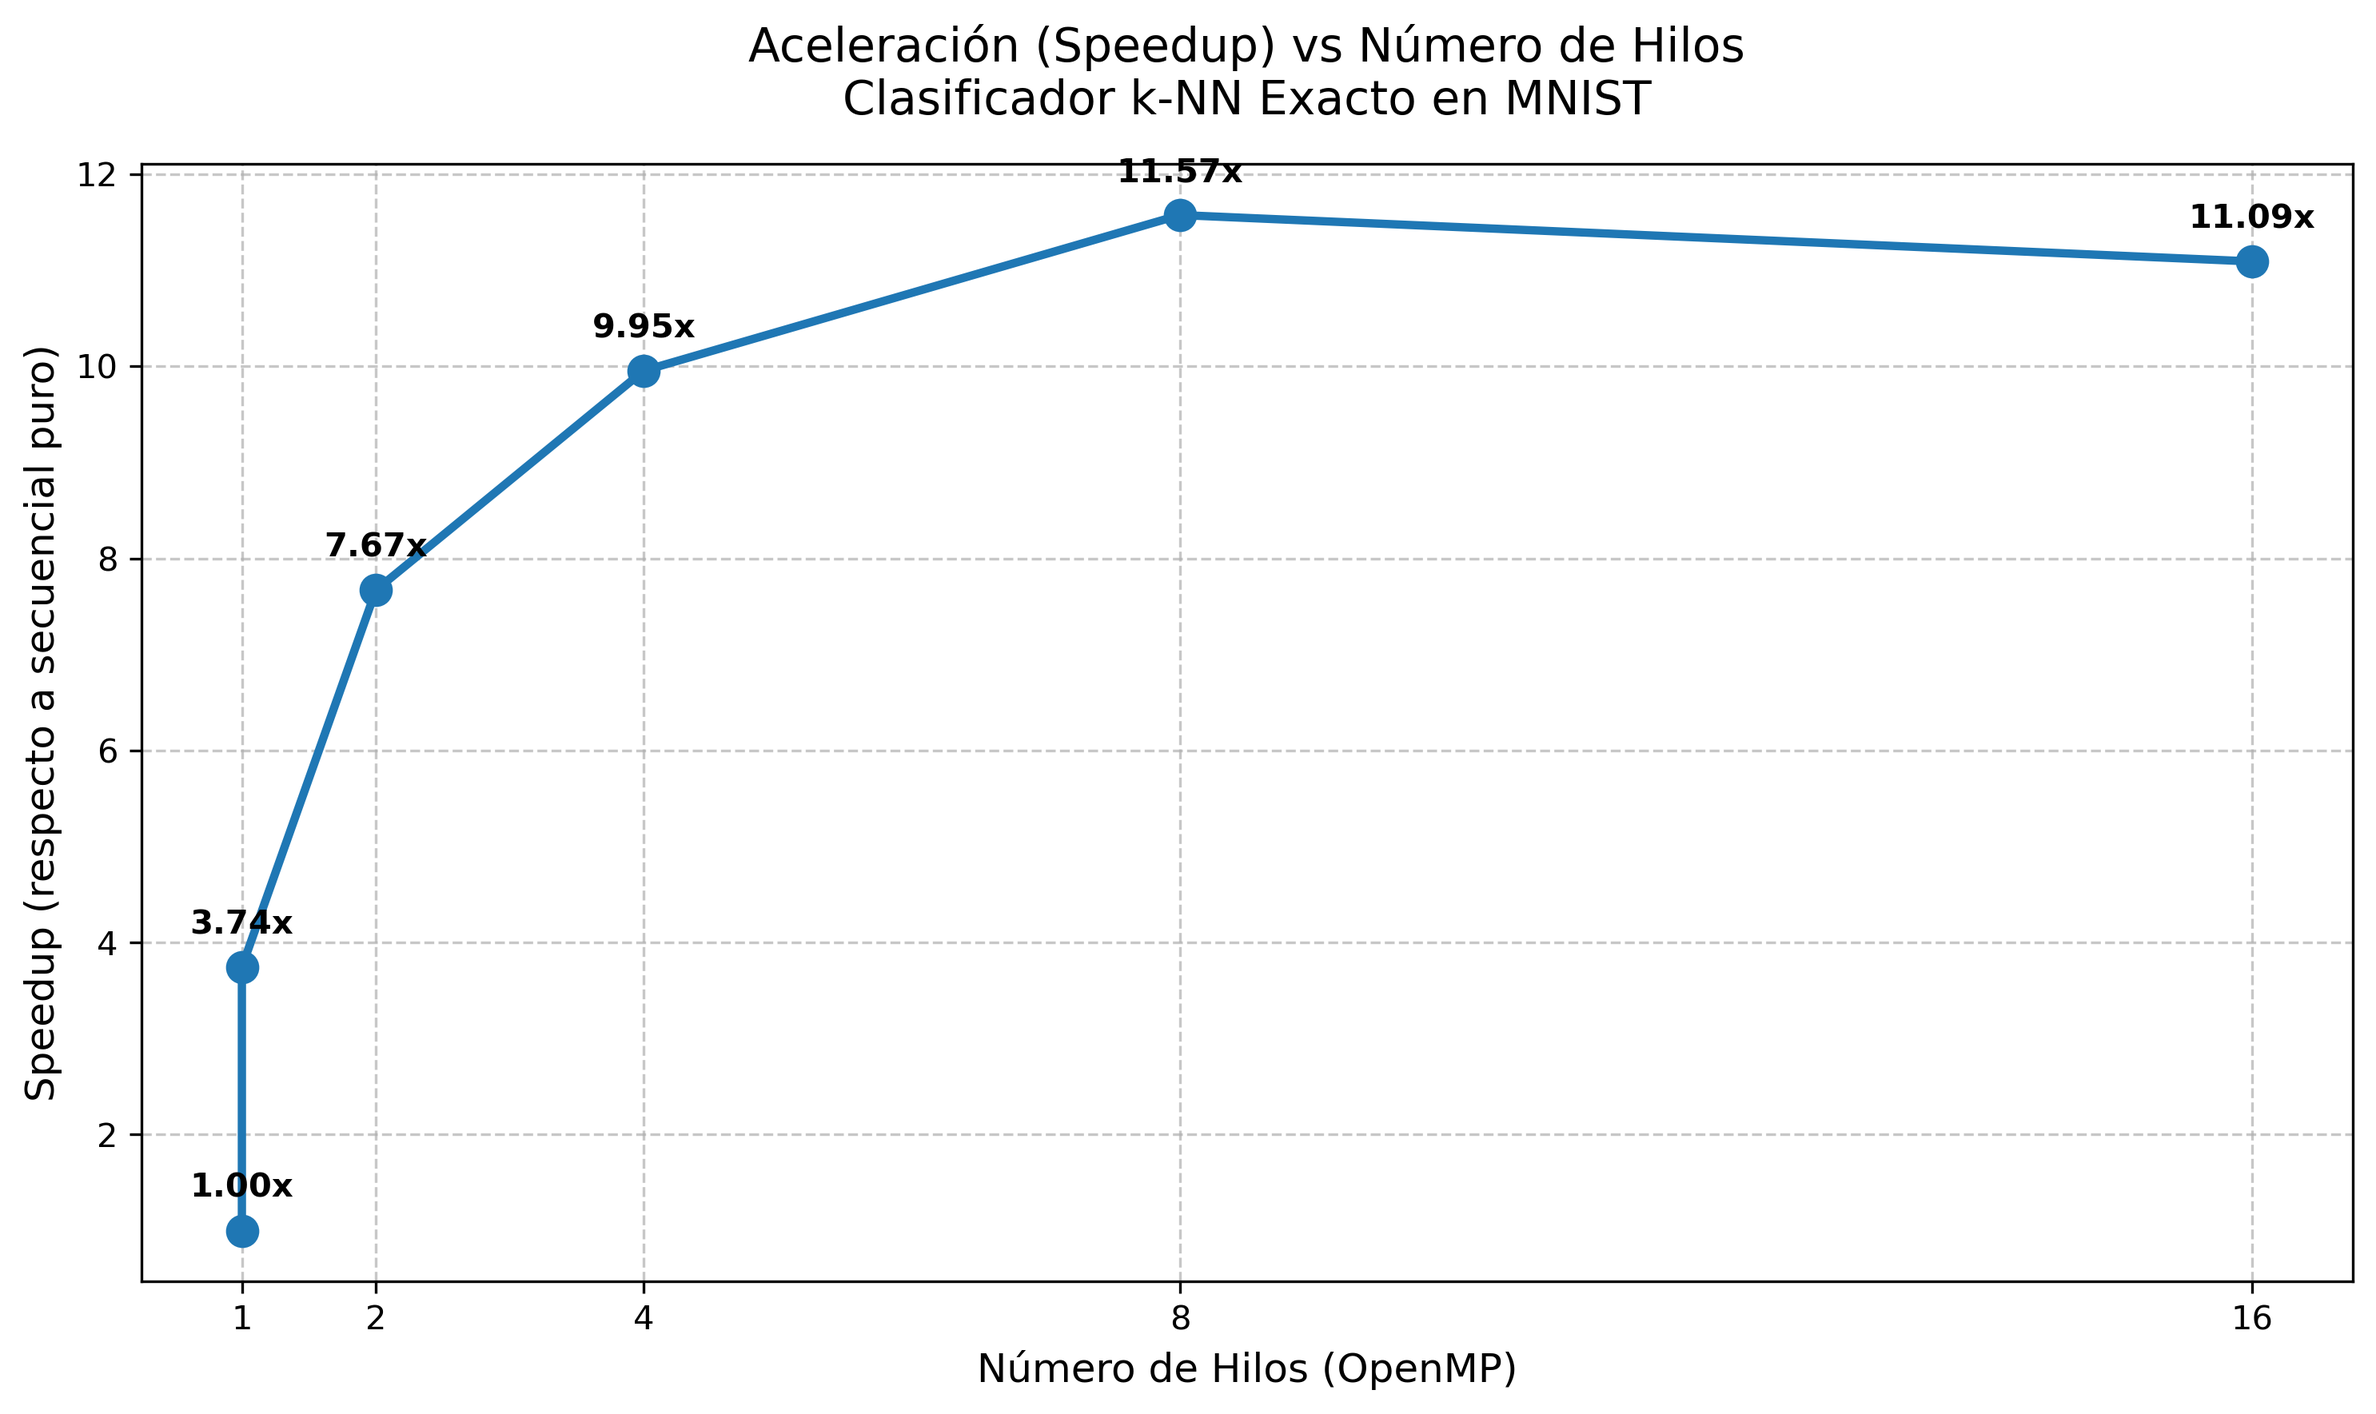
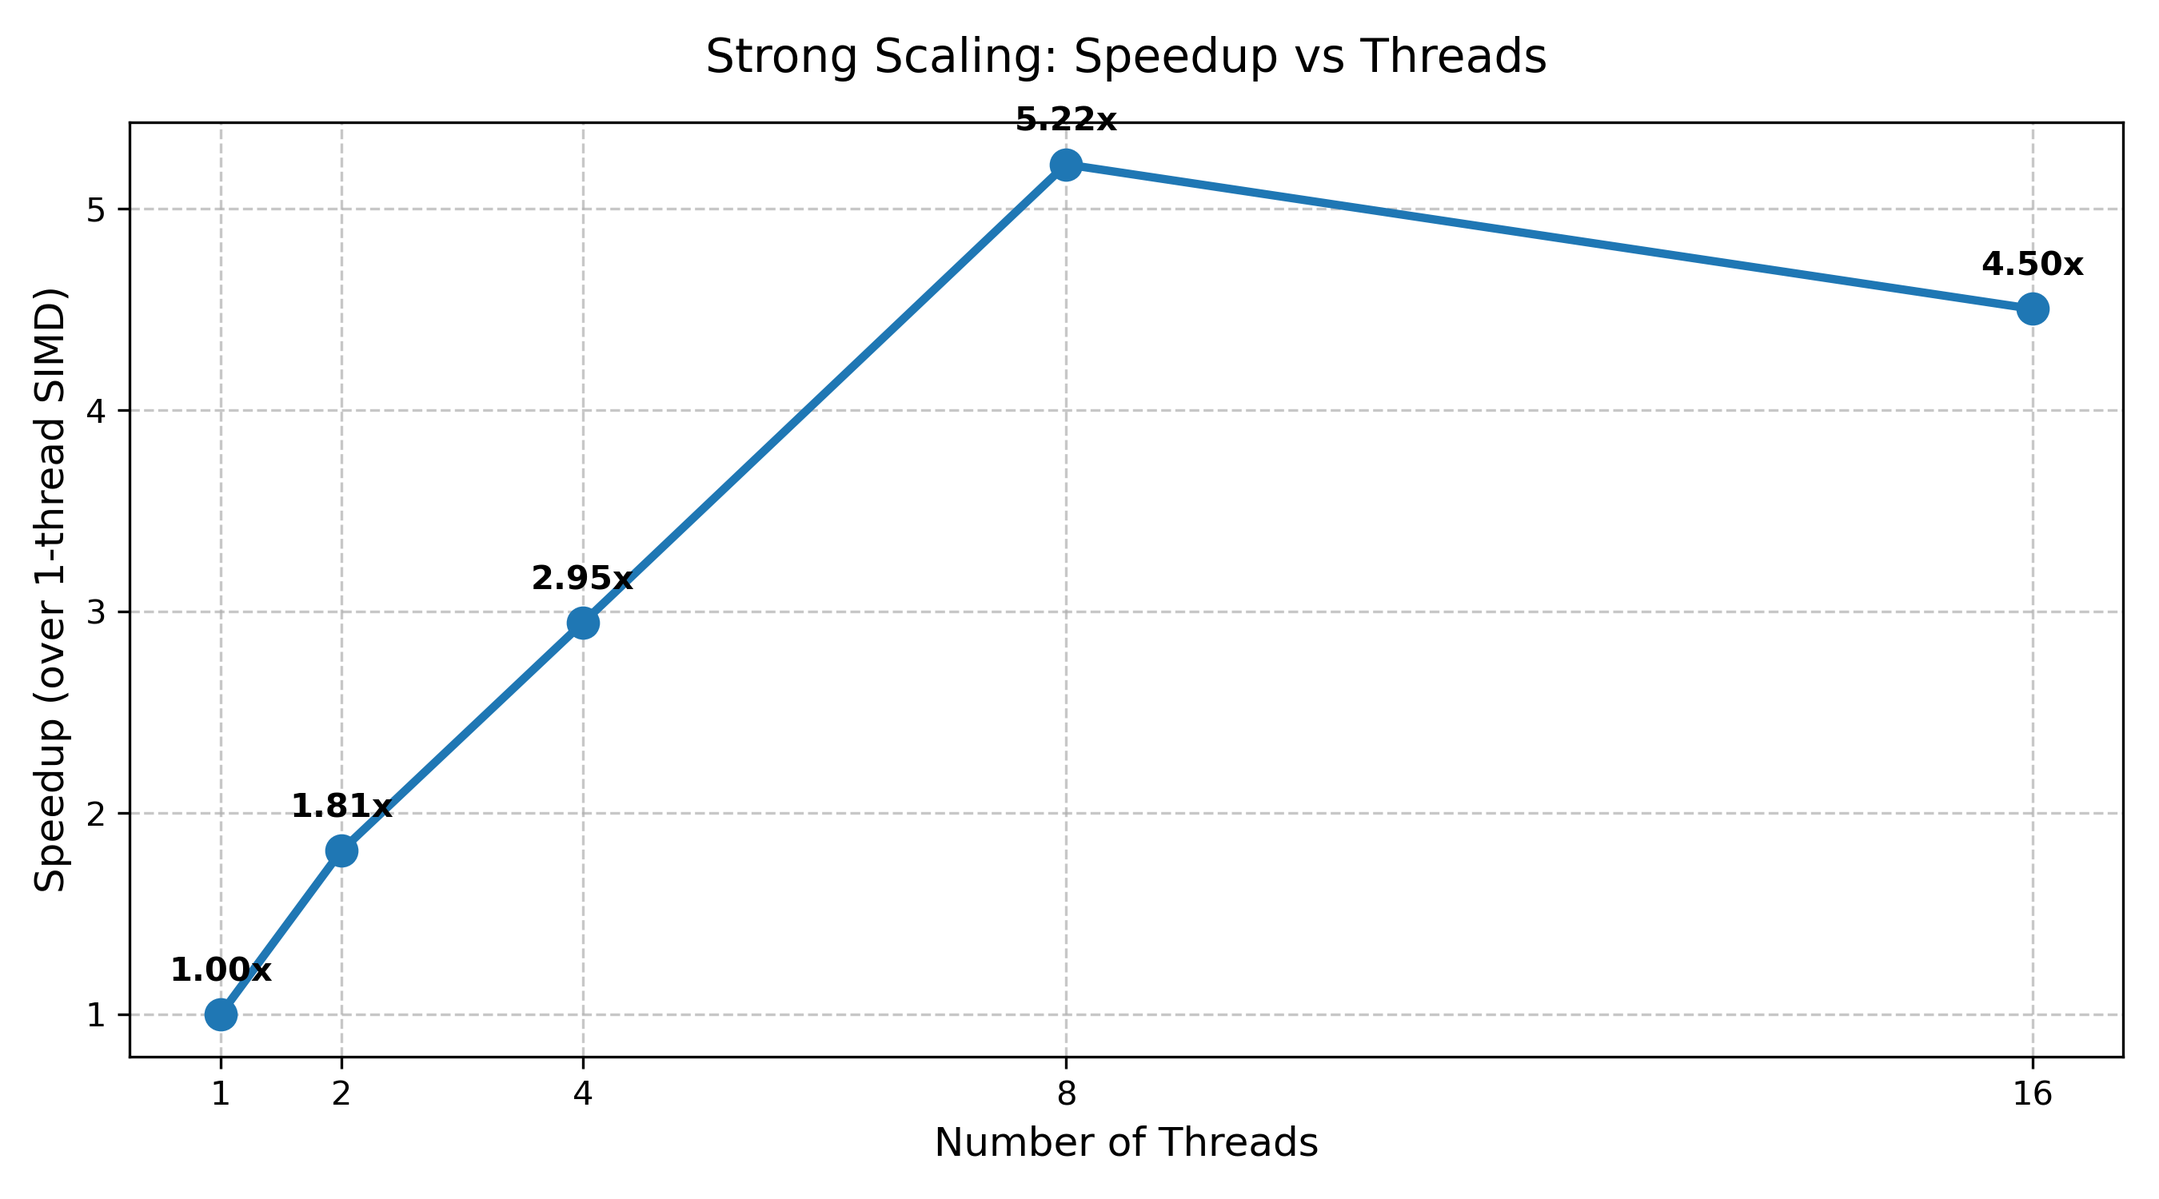
Add final technical report, performance plots, and execution results

diff --git a/knn_mnist.cpp b/knn_mnist.cpp
@@ -7,6 +7,7 @@
 #include <algorithm>
 #include <chrono>
 #include <omp.h>
+#include <iomanip>
 
 uint32_t swap_endian(uint32_t val) {
     return ((val << 24) & 0xff000000) |
@@ -68,6 +69,8 @@ void read_mnist_labels(const std::string& full_path, DatasetSoA& dataset) {
     }
 }
 
+// ---------------- DISTANCIAS Y SIMD ----------------
+
 float euclidean_distance_sq_simd(const float* img1, const float* img2, size_t num_features) {
     float dist = 0.0f;
     #pragma omp simd reduction(+:dist)
@@ -78,85 +81,84 @@ float euclidean_distance_sq_simd(const float* img1, const float* img2, size_t nu
     return dist;
 }
 
-
-
-// 1. DYNAMIC SCHEDULING
-
-
-
-double test_dynamic(const DatasetSoA& train, const DatasetSoA& test, int k, int samples, int threads) {
-    omp_set_num_threads(threads);
-    int correct = 0;
-    auto start = std::chrono::high_resolution_clock::now();
-
-    #pragma omp parallel for reduction(+:correct) schedule(dynamic)
-    for (int i = 0; i < samples; ++i) {
-        const float* current_test_img = &test.all_features[i * test.num_features];
-        std::vector<std::pair<float, uint8_t>> distances(train.num_samples);
-
-        for (size_t j = 0; j < train.num_samples; ++j) {
-            float dist = euclidean_distance_sq_simd(current_test_img, &train.all_features[j * train.num_features], train.num_features);
-            distances[j] = {dist, train.labels[j]};
-        }
-        std::partial_sort(distances.begin(), distances.begin() + k, distances.end(),
-                          [](const std::pair<float, uint8_t>& a, const std::pair<float, uint8_t>& b) { return a.first < b.first; });
+float cosine_distance_simd(const float* img1, const float* img2, size_t num_features) {
+    float dot = 0.0f, norm1 = 0.0f, norm2 = 0.0f;
+    #pragma omp simd reduction(+:dot, norm1, norm2)
+    for (size_t i = 0; i < num_features; ++i) {
+        dot += img1[i] * img2[i];
+        norm1 += img1[i] * img1[i];
+        norm2 += img2[i] * img2[i];
     }
-    std::chrono::duration<double> elapsed = std::chrono::high_resolution_clock::now() - start;
-    return elapsed.count();
+    if (norm1 == 0.0f || norm2 == 0.0f) return 1.0f; // Prevenir división por 0
+    return 1.0f - (dot / (std::sqrt(norm1) * std::sqrt(norm2)));
 }
 
+// ---------------- CLASIFICACIÓN (MAYORÍA) ----------------
 
-
-// 2. STATIC SCHEDULING
-
-
-
-double test_static(const DatasetSoA& train, const DatasetSoA& test, int k, int samples, int threads) {
-    omp_set_num_threads(threads);
-    int correct = 0;
-    auto start = std::chrono::high_resolution_clock::now();
-
-    #pragma omp parallel for reduction(+:correct) schedule(static)
-    for (int i = 0; i < samples; ++i) {
-        const float* current_test_img = &test.all_features[i * test.num_features];
-        std::vector<std::pair<float, uint8_t>> distances(train.num_samples);
-
-        for (size_t j = 0; j < train.num_samples; ++j) {
-            float dist = euclidean_distance_sq_simd(current_test_img, &train.all_features[j * train.num_features], train.num_features);
-            distances[j] = {dist, train.labels[j]};
-        }
-        std::partial_sort(distances.begin(), distances.begin() + k, distances.end(),
-                          [](const std::pair<float, uint8_t>& a, const std::pair<float, uint8_t>& b) { return a.first < b.first; });
+uint8_t get_majority_vote(const std::vector<std::pair<float, uint8_t>>& k_nearest, int k) {
+    int counts[10] = {0};
+    for (int i = 0; i < k; ++i) {
+        counts[k_nearest[i].second]++;
     }
-    std::chrono::duration<double> elapsed = std::chrono::high_resolution_clock::now() - start;
-    return elapsed.count();
+    uint8_t best_label = 0;
+    int max_count = -1;
+    for (int i = 0; i < 10; ++i) {
+        if (counts[i] > max_count) {
+            max_count = counts[i];
+            best_label = i;
+        }
+    }
+    return best_label;
 }
 
+enum DistanceMetric { EUCLIDEAN, COSINE };
 
+// ---------------- RUTINA PRINCIPAL EVALUACIÓN ----------------
 
-
-// 3. GUIDED SCHEDULING
-
-
-
-double test_guided(const DatasetSoA& train, const DatasetSoA& test, int k, int samples, int threads) {
+double run_knn_evaluation(const DatasetSoA& train, const DatasetSoA& test, int k, int samples, 
+                          int threads, omp_sched_t sched, DistanceMetric metric, double& out_accuracy) {
+    
     omp_set_num_threads(threads);
+    omp_set_schedule(sched, 0); // 0 deja que OpenMP decida el chunk_size óptimo por defecto
+    
     int correct = 0;
     auto start = std::chrono::high_resolution_clock::now();
 
-    #pragma omp parallel for reduction(+:correct) schedule(guided)
-    for (int i = 0; i < samples; ++i) {
-        const float* current_test_img = &test.all_features[i * test.num_features];
+    // Declaramos el entorno paralelo para todo el bucle
+    #pragma omp parallel reduction(+:correct)
+    {
+        // IMPORTANTE: Instanciar la memoria de distancias UNA SOLA VEZ por hilo.
+        // Hacerlo dentro del for mata el rendimiento por culpa de re-allocations masivas.
         std::vector<std::pair<float, uint8_t>> distances(train.num_samples);
 
-        for (size_t j = 0; j < train.num_samples; ++j) {
-            float dist = euclidean_distance_sq_simd(current_test_img, &train.all_features[j * train.num_features], train.num_features);
-            distances[j] = {dist, train.labels[j]};
+        #pragma omp for schedule(runtime)
+        for (int i = 0; i < samples; ++i) {
+            const float* current_test_img = &test.all_features[i * test.num_features];
+
+            for (size_t j = 0; j < train.num_samples; ++j) {
+                float dist;
+                if (metric == EUCLIDEAN) {
+                    dist = euclidean_distance_sq_simd(current_test_img, &train.all_features[j * train.num_features], train.num_features);
+                } else {
+                    dist = cosine_distance_simd(current_test_img, &train.all_features[j * train.num_features], train.num_features);
+                }
+                distances[j].first = dist;
+                distances[j].second = train.labels[j];
+            }
+            
+            // Ordenación parcial para obtener los K mejores
+            std::partial_sort(distances.begin(), distances.begin() + k, distances.end(),
+                              [](const std::pair<float, uint8_t>& a, const std::pair<float, uint8_t>& b) { return a.first < b.first; });
+            
+            uint8_t predicted_label = get_majority_vote(distances, k);
+            if (predicted_label == test.labels[i]) {
+                correct++;
+            }
         }
-        std::partial_sort(distances.begin(), distances.begin() + k, distances.end(),
-                          [](const std::pair<float, uint8_t>& a, const std::pair<float, uint8_t>& b) { return a.first < b.first; });
     }
+    
     std::chrono::duration<double> elapsed = std::chrono::high_resolution_clock::now() - start;
+    out_accuracy = (static_cast<double>(correct) / samples) * 100.0;
     return elapsed.count();
 }
 
@@ -174,40 +176,73 @@ int main() {
         read_mnist_labels(test_labels_path, test_data);
         
         int samples = 10000;
-        int k = 5;
-        int optimal_threads = 8; // Fijado segun tu mejor resultado
+        int optimal_threads = 8;
+        int num_runs = 5; // Requisito: Mínimo 5 ejecuciones
+        double accuracy = 0.0;
         
-        std::ofstream csv_file("scheduling_results.csv");
-        csv_file << "Schedule_Type,Time_Seconds\n";
-
-        std::cout << "\nIniciando comparativa de Scheduling OpenMP con " << optimal_threads << " hilos..." << std::endl;
+        std::cout << "\n1. Evaluacion de Precision (Accuracy) con K=1, 5, 10" << std::endl;
+        std::cout << "--------------------------------------------------------" << std::endl;
+        int ks[] = {1, 5, 10};
         
-        // 1. Dynamic
-        std::cout << "-> Probando schedule(dynamic)... ";
-        double t_dyn = 0;
-        for(int r=0; r<3; r++) t_dyn += test_dynamic(train_data, test_data, k, samples, optimal_threads);
-        t_dyn /= 3.0;
-        std::cout << t_dyn << " seg" << std::endl;
-        csv_file << "dynamic," << t_dyn << "\n";
+        for (int k : ks) {
+            run_knn_evaluation(train_data, test_data, k, samples, optimal_threads, omp_sched_static, EUCLIDEAN, accuracy);
+            std::cout << "K=" << std::left << std::setw(2) << k << " | Euclidiana | Accuracy: " << accuracy << "%" << std::endl;
+            
+            run_knn_evaluation(train_data, test_data, k, samples, optimal_threads, omp_sched_static, COSINE, accuracy);
+            std::cout << "K=" << std::left << std::setw(2) << k << " | Coseno     | Accuracy: " << accuracy << "%" << std::endl;
+        }
 
-        // 2. Static
-        std::cout << "-> Probando schedule(static)... ";
-        double t_stat = 0;
-        for(int r=0; r<3; r++) t_stat += test_static(train_data, test_data, k, samples, optimal_threads);
-        t_stat /= 3.0;
-        std::cout << t_stat << " seg" << std::endl;
-        csv_file << "static," << t_stat << "\n";
-
-        // 3. Guided
-        std::cout << "-> Probando schedule(guided)... ";
-        double t_gui = 0;
-        for(int r=0; r<3; r++) t_gui += test_guided(train_data, test_data, k, samples, optimal_threads);
-        t_gui /= 3.0;
-        std::cout << t_gui << " seg" << std::endl;
-        csv_file << "guided," << t_gui << "\n";
+        std::cout << "\n2. Iniciando pruebas de Scheduling OpenMP (k=5, 8 Hilos)..." << std::endl;
+        std::ofstream sched_file("scheduling_results.csv");
+        sched_file << "Schedule_Type,Time_Seconds\n";
         
-        csv_file.close();
-        std::cout << "\nPruebas de Scheduling terminadas. Guardado en 'scheduling_results.csv'" << std::endl;
+        omp_sched_t schedules[] = {omp_sched_static, omp_sched_dynamic, omp_sched_guided};
+        std::string sched_names[] = {"static", "dynamic", "guided"};
+        
+        for (int i = 0; i < 3; i++) {
+            std::cout << "-> Probando schedule(" << sched_names[i] << ")... ";
+            double t_total = 0;
+            
+            // Warm-up run (descartamos primera ejecucion)
+            run_knn_evaluation(train_data, test_data, 5, samples, optimal_threads, schedules[i], EUCLIDEAN, accuracy);
+            
+            for(int r = 0; r < num_runs; r++) {
+                t_total += run_knn_evaluation(train_data, test_data, 5, samples, optimal_threads, schedules[i], EUCLIDEAN, accuracy);
+            }
+            double t_avg = t_total / num_runs;
+            std::cout << t_avg << " seg" << std::endl;
+            sched_file << sched_names[i] << "," << t_avg << "\n";
+        }
+        sched_file.close();
+        std::cout << "Pruebas de Scheduling terminadas. ('scheduling_results.csv')" << std::endl;
+
+
+        std::cout << "\n3. Iniciando pruebas de Escalabilidad Fuerte (Strong Scaling)..." << std::endl;
+        std::ofstream scale_file("scaling_results.csv");
+        scale_file << "Threads,Time,Speedup\n";
+        
+        int thread_counts[] = {1, 2, 4, 8, 16};
+        double base_time = 0.0;
+        
+        for (int t : thread_counts) {
+            std::cout << "-> Ejecutando con " << t << " hilos... ";
+            double t_total = 0;
+            
+            // Warm-up
+            run_knn_evaluation(train_data, test_data, 5, samples, t, omp_sched_static, EUCLIDEAN, accuracy);
+            
+            for(int r = 0; r < num_runs; r++) {
+                t_total += run_knn_evaluation(train_data, test_data, 5, samples, t, omp_sched_static, EUCLIDEAN, accuracy);
+            }
+            double t_avg = t_total / num_runs;
+            
+            if (t == 1) base_time = t_avg; // Tomamos el primer run como base de speedup (secuencial puro requeriria quitar pragmas, pero esto da una buena metrica)
+            
+            std::cout << t_avg << " seg | Speedup: " << base_time / t_avg << "x" << std::endl;
+            scale_file << t << "," << t_avg << "," << base_time / t_avg << "\n";
+        }
+        scale_file.close();
+        std::cout << "Pruebas de Escalabilidad terminadas. ('scaling_results.csv')" << std::endl;
         
     } catch (const std::exception& e) {
         std::cerr << "Excepcion: " << e.what() << std::endl;

diff --git a/plot_results.py b/plot_results.py
@@ -1,34 +1,70 @@
 import pandas as pd
 import matplotlib.pyplot as plt
+import numpy as np
 
-# 1. Leer el archivo CSV que generó tu código C++
-df = pd.read_csv('scaling_results.csv')
+# --- 1. Gráfica de Speedup ---
+df_scale = pd.read_csv('scaling_results.csv')
+df_scale['Threads'] = df_scale['Threads'].astype(str).str.extract(r'(\d+)').astype(int)
 
-# Limpiar la columna de hilos (convierte "1(Seq)" a 1 numérico)
-df['Threads'] = df['Threads'].astype(str).str.extract(r'(\d+)').astype(int)
-
-# 2. Configurar la gráfica
-plt.figure(figsize=(10, 6))
-plt.plot(df['Threads'], df['Speedup'], marker='o', linestyle='-', linewidth=2.5, markersize=9, color='#1f77b4')
-
-# 3. Darle formato y etiquetas
-plt.title('Aceleración (Speedup) vs Número de Hilos\nClasificador k-NN Exacto en MNIST', fontsize=14, pad=15)
-plt.xlabel('Número de Hilos (OpenMP)', fontsize=12)
-plt.ylabel('Speedup (respecto a secuencial puro)', fontsize=12)
+plt.figure(figsize=(9, 5))
+plt.plot(df_scale['Threads'], df_scale['Speedup'], marker='o', linestyle='-', linewidth=2.5, markersize=9, color='#1f77b4')
+plt.title('Strong Scaling: Speedup vs Threads', fontsize=14, pad=15)
+plt.xlabel('Number of Threads', fontsize=12)
+plt.ylabel('Speedup (over 1-thread SIMD)', fontsize=12)
 plt.xticks([1, 2, 4, 8, 16])
 plt.grid(True, linestyle='--', alpha=0.7)
-
-# Añadir el número exacto encima de cada punto
-for i, row in df.iterrows():
-    plt.annotate(f"{row['Speedup']:.2f}x", 
-                 (row['Threads'], row['Speedup']),
-                 textcoords="offset points", 
-                 xytext=(0,10), 
-                 ha='center',
-                 fontsize=10,
-                 fontweight='bold')
-
-# 4. Guardar la imagen en tu carpeta
+for i, row in df_scale.iterrows():
+    plt.annotate(f"{row['Speedup']:.2f}x", (row['Threads'], row['Speedup']), textcoords="offset points", xytext=(0,10), ha='center', fontweight='bold')
 plt.tight_layout()
-plt.savefig('speedup_plot.png', dpi=300, bbox_inches='tight')
-print("¡Éxito! Gráfica generada y guardada como 'speedup_plot.png' en tu carpeta.")
+plt.savefig('speedup_plot.png', dpi=300)
+plt.close()
+
+# --- 2. Gráfica de Precisión (Accuracy) ---
+k_values = ['K=1', 'K=5', 'K=10']
+euclidean_acc = [96.91, 96.88, 96.65]
+cosine_acc = [97.23, 97.30, 97.08]
+
+x = np.arange(len(k_values))
+width = 0.35
+
+plt.figure(figsize=(9, 5))
+fig, ax = plt.subplots(figsize=(9, 5))
+rects1 = ax.bar(x - width/2, euclidean_acc, width, label='Euclidean', color='#ff7f0e')
+rects2 = ax.bar(x + width/2, cosine_acc, width, label='Cosine', color='#2ca02c')
+
+ax.set_ylabel('Accuracy (%)', fontsize=12)
+ax.set_title('Classification Accuracy: Euclidean vs Cosine Distance', fontsize=14, pad=15)
+ax.set_xticks(x)
+ax.set_xticklabels(k_values, fontsize=12)
+ax.set_ylim(96.0, 97.5)
+ax.legend()
+ax.grid(axis='y', linestyle='--', alpha=0.7)
+
+for rects in [rects1, rects2]:
+    for rect in rects:
+        height = rect.get_height()
+        ax.annotate(f'{height}%', xy=(rect.get_x() + rect.get_width() / 2, height),
+                    xytext=(0, 3), textcoords="offset points", ha='center', va='bottom', fontweight='bold')
+
+plt.tight_layout()
+plt.savefig('accuracy_plot.png', dpi=300)
+plt.close()
+
+# --- 3. Gráfica de Scheduling ---
+df_sched = pd.read_csv('scheduling_results.csv')
+plt.figure(figsize=(8, 5))
+bars = plt.bar(df_sched['Schedule_Type'], df_sched['Time_Seconds'], color=['#1f77b4', '#ff7f0e', '#d62728'], width=0.6)
+plt.title('OpenMP Scheduling Performance (8 Threads)', fontsize=14, pad=15)
+plt.xlabel('Schedule Strategy', fontsize=12)
+plt.ylabel('Execution Time (Seconds)', fontsize=12)
+plt.grid(axis='y', linestyle='--', alpha=0.7)
+
+for bar in bars:
+    yval = bar.get_height()
+    plt.text(bar.get_x() + bar.get_width()/2, yval - 3, f"{yval:.2f}s", ha='center', va='top', color='white', fontweight='bold', fontsize=11)
+
+plt.tight_layout()
+plt.savefig('scheduling_plot.png', dpi=300)
+plt.close()
+
+print("¡Generadas con éxito: speedup_plot.png, accuracy_plot.png y scheduling_plot.png!")
